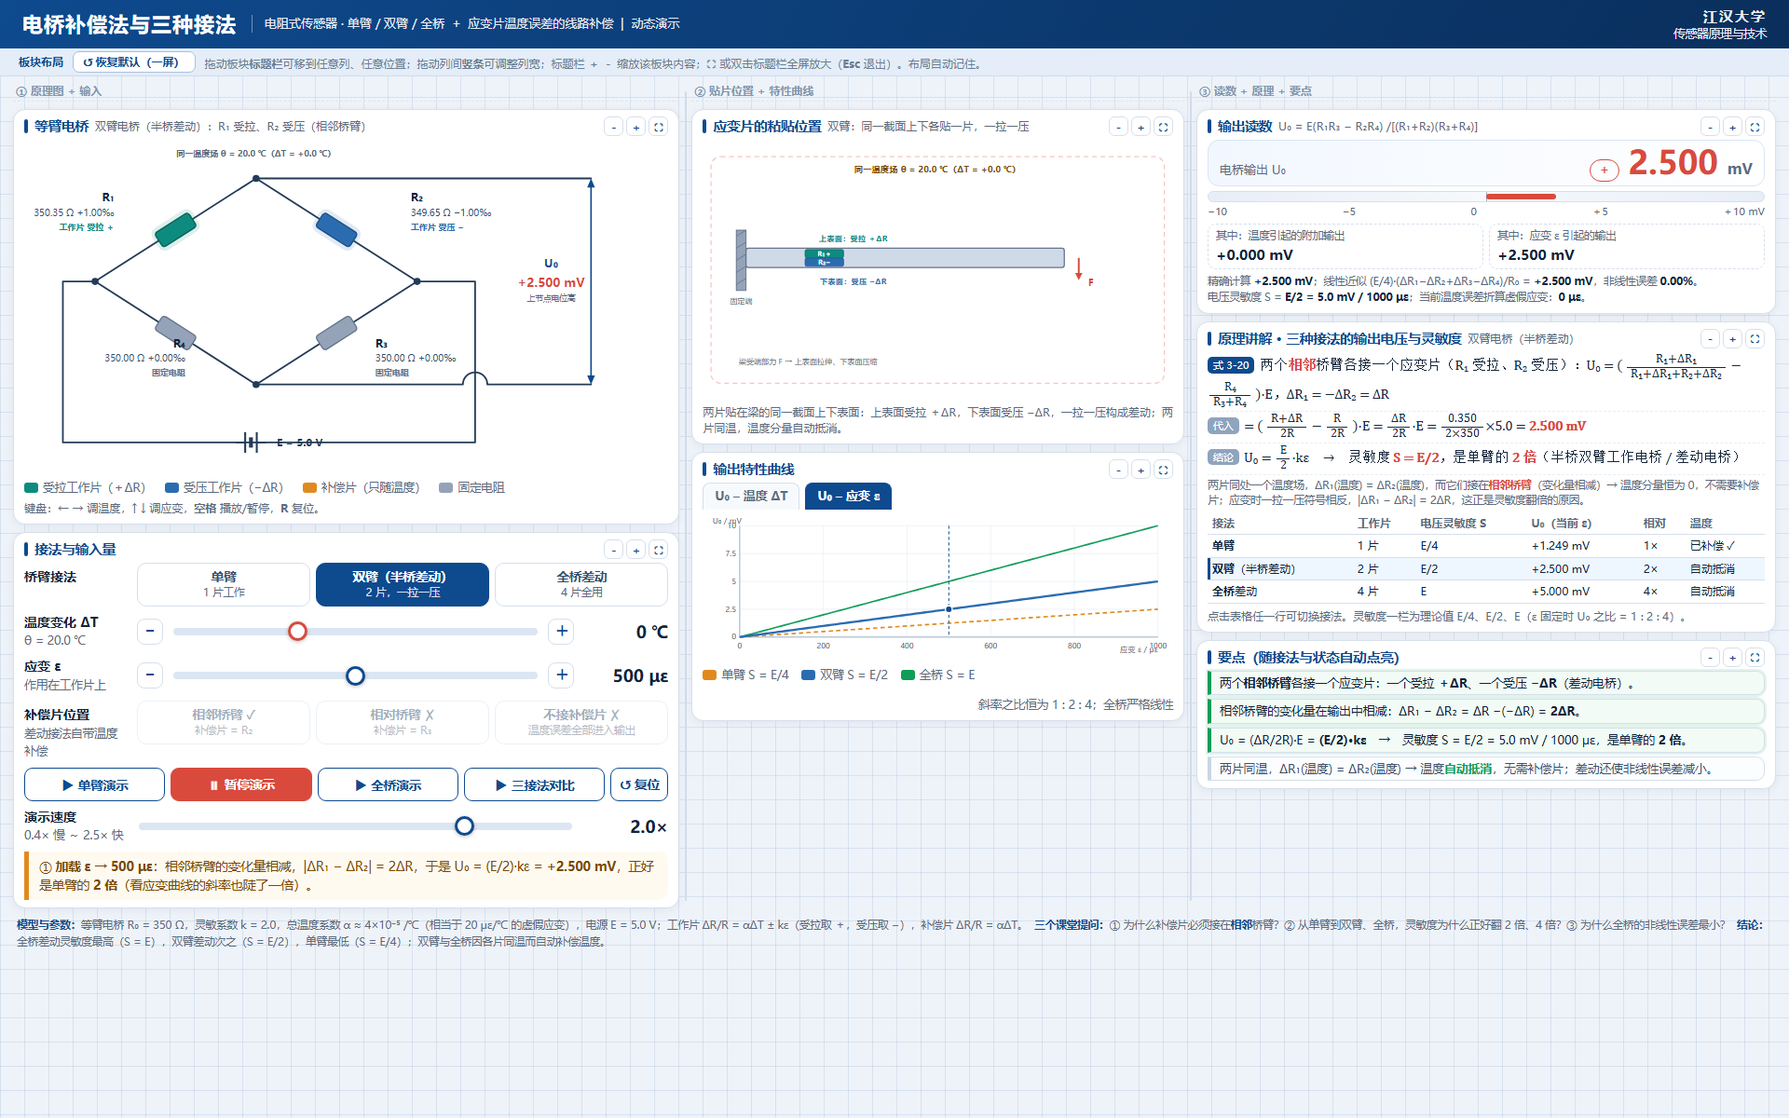
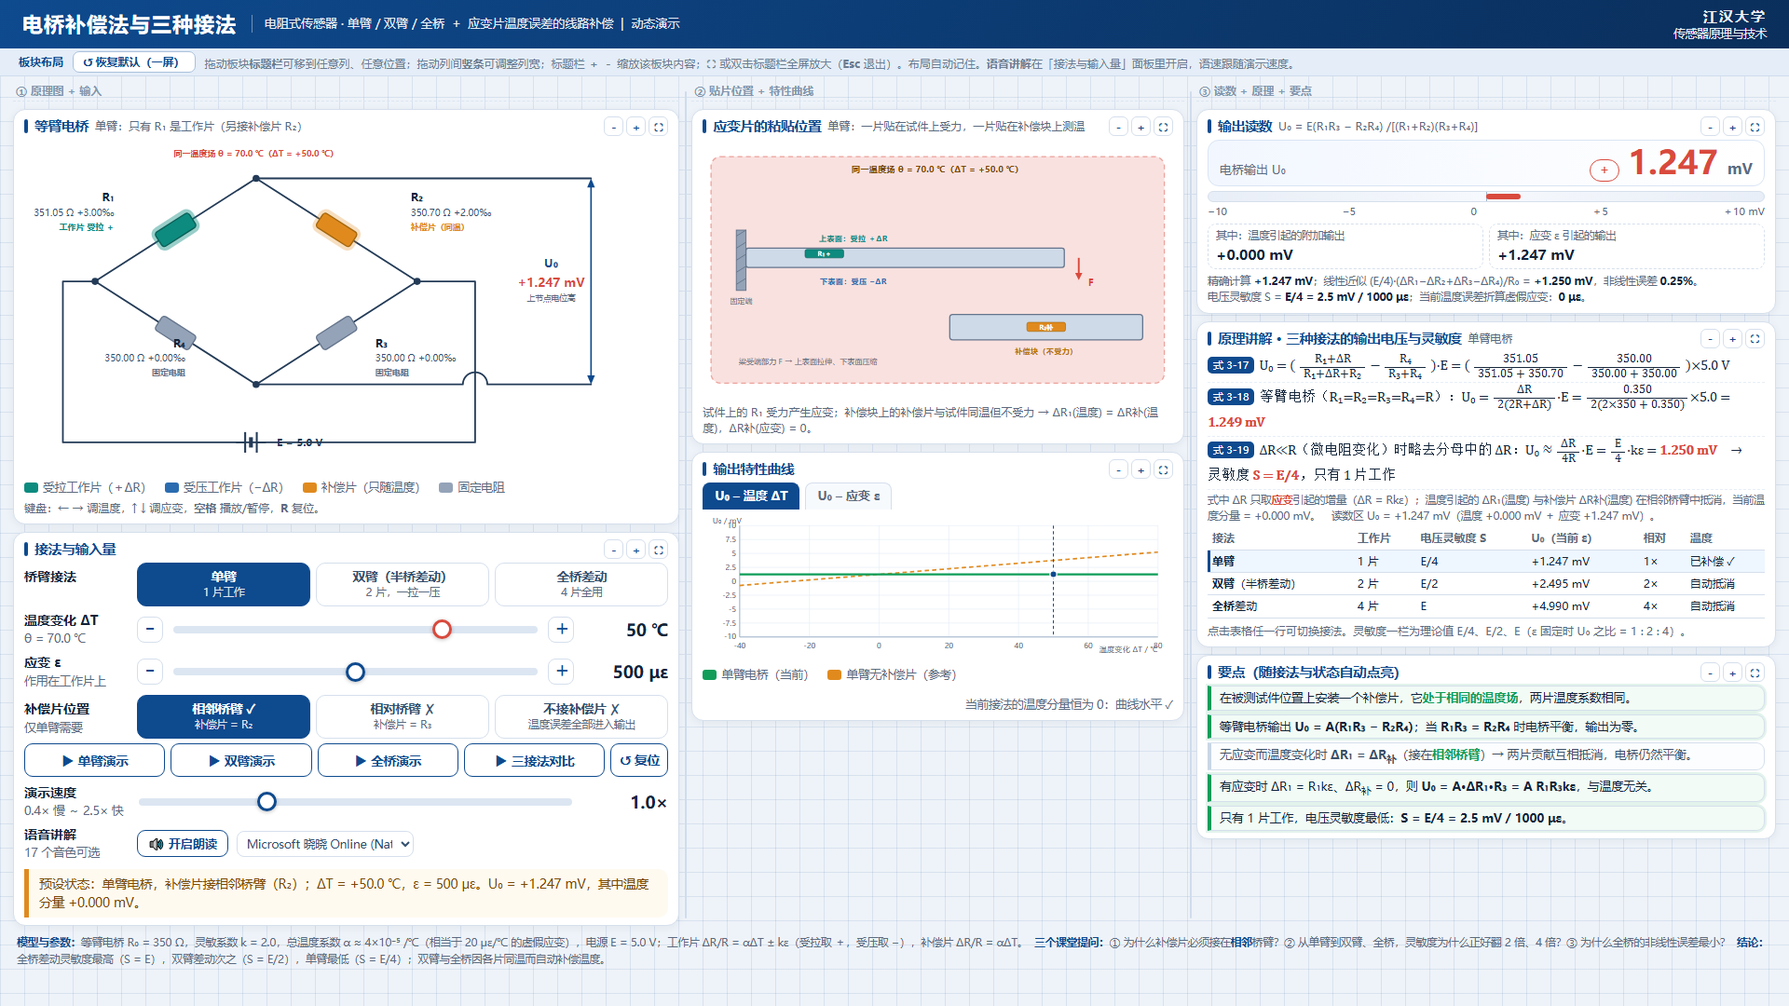
两个演示都加入语音讲解：浏览器内置 TTS 自动朗读旁白，语速跟随演示速度，可选自然音色，旁白可点击重听

diff --git a/传感器原理及检测技术/第3章-半导体压阻效应-动态演示.html b/传感器原理及检测技术/第3章-半导体压阻效应-动态演示.html
@@ -68,7 +68,7 @@
   svg{display:block; width:100%; height:auto}
   .tiny{font-size:12px; fill:var(--muted); color:var(--muted)}
   /* ---- 控件 ---- */
-  .ctrl{display:flex; flex-direction:column; gap:3px; margin-bottom:7px}
+  .ctrl{display:flex; flex-direction:column; gap:3px; margin-bottom:5px}
   .ctrl .row{display:flex; align-items:center; gap:9px}
   .ctrl .name{font-size:13.5px; color:var(--muted); width:118px; flex:none}
   .ctrl .name b{color:var(--ink); font-size:14px}
@@ -85,15 +85,22 @@
   .seg button.on small{color:rgba(255,255,255,.85)}
   .seg button.on.semi{background:var(--semi); border-color:var(--semi)}
   .seg button.on.metal{background:var(--metal); border-color:var(--metal)}
-  .actions{display:flex; gap:6px; margin-top:7px; flex-wrap:wrap}
+  .actions{display:flex; gap:6px; margin-top:5px; flex-wrap:wrap}
   .actions button{flex:1 1 108px; padding:7px 4px; border-radius:9px; border:1px solid var(--jhu);
                   background:var(--jhu); color:#fff; font-size:13.5px; font-weight:700; cursor:pointer;
                   font-family:inherit; white-space:nowrap}
   .actions button.ghost{background:#fff; color:var(--jhu)}
   .actions button.running{background:var(--hot); border-color:var(--hot); color:#fff}
   .actions button:hover{filter:brightness(1.07)}
-  .narrate{margin-top:7px; border-left:5px solid var(--piezo); background:#faf7ff; border-radius:0 10px 10px 0;
-           padding:6px 11px; font-size:13.5px; line-height:1.5; min-height:40px; color:#4c2a80}
+  .narrate{margin-top:5px; border-left:5px solid var(--piezo); background:#faf7ff; border-radius:0 10px 10px 0;
+           padding:5px 11px; font-size:13.5px; line-height:1.5; min-height:40px; color:#4c2a80; cursor:pointer}
+  .narrate:hover{background:#f6f1ff}
+  #voiceToggle{border:1px solid var(--jhu); background:#fff; color:var(--jhu); border-radius:9px;
+               font-size:13px; font-weight:700; padding:5px 11px; cursor:pointer; font-family:inherit; white-space:nowrap}
+  #voiceToggle.on{background:var(--jhu); color:#fff}
+  #voiceToggle:hover{filter:brightness(1.06)}
+  #voiceSel{border:1px solid var(--line); background:#fff; color:#33506f; border-radius:8px;
+            padding:4px 6px; font-size:12.5px; font-family:inherit; max-width:190px}
   /* ---- 读数 ---- */
   .big{display:flex; align-items:baseline; gap:9px; background:linear-gradient(90deg,#f2f7ff,#fff);
        border:1px solid #d9e5f5; border-radius:12px; padding:4px 12px}
@@ -147,7 +154,7 @@
 <div id="laybar">
   <span style="font-weight:700;color:#0e4a8e">板块布局</span>
   <button id="layReset">↺ 恢复默认（一屏）</button>
-  <span class="hint">拖动板块<b>标题栏</b>可移到任意列、任意位置；拖动列间<b>竖条</b>可调整列宽；标题栏 <b>＋ －</b> 缩放该板块内容；<b>⛶</b> 或双击标题栏全屏放大（<b>Esc</b> 退出）。布局自动记住。</span>
+  <span class="hint">拖动板块<b>标题栏</b>可移到任意列、任意位置；拖动列间<b>竖条</b>可调整列宽；标题栏 <b>＋ －</b> 缩放该板块内容；<b>⛶</b> 或双击标题栏全屏放大（<b>Esc</b> 退出）。布局自动记住。<b>语音讲解</b>在「材料与输入量」面板里开启，语速跟随演示速度。</span>
 </div>
 
 <div id="boardWrap">
@@ -221,7 +228,14 @@
           <output id="speedOut">1.0×</output>
         </div>
       </div>
-      <div class="narrate" id="narration">初始状态：金属应变片、ε = 0，电阻率与电阻都不变。四个演示按钮分别讲：压阻效应本体 / 微观机制 / 金属与半导体对比 / 硅膜片全桥应用。</div>
+      <div class="ctrl">
+        <div class="row">
+          <span class="name"><b>语音讲解</b><br><span class="tiny" id="voiceHint">演示时自动朗读旁白</span></span>
+          <button id="voiceToggle">🔊 开启朗读</button>
+          <select id="voiceSel" title="选择朗读音色"></select>
+        </div>
+      </div>
+      <div class="narrate" id="narration" title="点一下可重听这一条">初始状态：金属应变片、ε = 0，电阻率与电阻都不变。四个演示按钮分别讲：压阻效应本体 / 微观机制 / 金属与半导体对比 / 硅膜片全桥应用。</div>
       </div>
     </section>
 
@@ -231,7 +245,7 @@
         <div class="ptools"><button class="ptool" data-act="out" title="缩小本板块内容">－</button><button class="ptool" data-act="in" title="放大本板块内容">＋</button><button class="ptool" data-act="max" title="最大化 / 还原">⛶</button></div>
       </div>
       <div class="pbody">
-      <svg id="lat" viewBox="0 0 700 356" role="img" aria-label="应力改变晶格、散射与电阻率的对照示意">
+      <svg id="lat" viewBox="0 0 700 350" role="img" aria-label="应力改变晶格、散射与电阻率的对照示意">
         <g id="chain"></g>
         <!-- ① 基准 -->
         <text x="12" y="82" font-size="13" font-weight="700" fill="#5b6b80">① 无应力（基准）</text>
@@ -261,7 +275,7 @@
         <text id="rhoLine" x="178" y="282" font-size="13.5" fill="#33506f">应力使迁移率 μ_c 变化 → 电阻率 ρ 反向变化</text>
         <text id="whyLine" x="12" y="302" font-size="12.5" fill="#5b6b80">机理：应力改变晶格的对称性与原子间距 → 半导体能带结构（能谷位置、有效质量、散射几率）随之变化 → μ_c 改变。</text>
         <text id="whyLine2" x="12" y="322" font-size="12.5" fill="#5b6b80">金属缺少这个“杠杆”：晶格同样会变形，但 ρ 几乎不变，只能靠尺寸变化（1+2μ）—— 对比一下 ② 行。</text>
-        <text x="12" y="346" font-size="11.5" fill="#94a3b8">动画示意：晶格变形放大 300 倍，漂移速度与散射频率放大 12 倍；右侧 μ_c、ρ 为真实比例。</text>
+        <text x="12" y="342" font-size="11.5" fill="#94a3b8">动画示意：晶格变形放大 300 倍，漂移速度与散射频率放大 12 倍；右侧 μ_c、ρ 为真实比例。</text>
       </svg>
       <div class="hint" id="latHint">紫色圆点＝载流子，虚线圆＝它被晶格散射一次（撞一下、失去定向速度）：散射越频繁 → 漂移越慢 → 迁移率越小 → 电阻率越大。这就是“应力让晶格变形之后，宏观上量到 ρ 变化”的全过程。</div>
       </div>
@@ -839,7 +853,7 @@
       if (b){ b.textContent = DEMOS[k].label; b.classList.remove('running'); }
     });
   }
-  function stopDemo(){ S.demoToken++; playingKey = null; resetDemoButtons(); }
+  function stopDemo(){ S.demoToken++; playingKey = null; resetDemoButtons(); stopSpeak(); }
   function beginDemo(key){
     stopDemo(); playingKey = key;
     var b = $(DEMOS[key].btn);
@@ -847,8 +861,102 @@
     return ++S.demoToken;
   }
   function endDemo(){ playingKey = null; resetDemoButtons(); }
-  function say(t){ $('narration').innerHTML = t; }
-  function sleep(ms, tok){ return new Promise(function(res){ setTimeout(function(){ res(S.demoToken === tok); }, Math.max(50, ms/SPEED)); }); }
+
+  /* ---------- 语音讲解（浏览器内置 TTS，无需音频文件） ---------- */
+  var synth = window.speechSynthesis || null;
+  var VOICE = { on:false, name:'', ready:false };
+  function plain(html){
+    return String(html).replace(/<[^>]*>/g, ' ')
+                       .replace(/&nbsp;/g, ' ').replace(/&amp;/g, '&')
+                       .replace(/&lt;/g, '<').replace(/&gt;/g, '>').replace(/\s+/g, ' ').trim();
+  }
+  function zhVoices(){
+    var all = (synth && synth.getVoices()) || [];
+    var zh = all.filter(function(v){ return /^zh/i.test(v.lang) || /Chinese|中文|普通话|Huihui|Yaoyao|Kangkang|Xiaoxiao|Yunxi/i.test(v.name); });
+    return zh.length ? zh : all;
+  }
+  function loadVoices(){
+    if (!synth){ $('voiceHint').textContent = '此浏览器不支持朗读'; $('voiceToggle').disabled = true; return; }
+    var list = zhVoices();
+    if (!list.length){ $('voiceHint').textContent = '未找到语音包'; return; }
+    var natural = '', common = '', i;
+    for (i = 0; i < list.length; i++){
+      if (!natural && /Natural|Online|Xiaoxiao|Yunxi|Xiaoyi/i.test(list[i].name)) natural = list[i].name;
+      if (!common && /Huihui|Yaoyao|Kangkang|慧慧|瑶瑶|康康/i.test(list[i].name)) common = list[i].name;
+    }
+    if (!VOICE.name || !list.some(function(v){ return v.name === VOICE.name; }))
+      VOICE.name = natural || common || list[0].name;
+    var sel = $('voiceSel');
+    sel.innerHTML = list.map(function(v){
+      return '<option value="' + v.name + '"' + (v.name === VOICE.name ? ' selected' : '') + '>' + v.name + '</option>';
+    }).join('');
+    VOICE.ready = true;
+    if (!VOICE.on) $('voiceHint').textContent = list.length + ' 个音色可选';
+  }
+  function makeUtterance(text){
+    var u = new SpeechSynthesisUtterance(plain(text));
+    var list = zhVoices(), v = null, i;
+    for (i = 0; i < list.length; i++){ if (list[i].name === VOICE.name){ v = list[i]; break; } }
+    if (v){ u.voice = v; u.lang = v.lang; } else { u.lang = 'zh-CN'; }
+    u.rate = Math.max(0.6, Math.min(1.9, 0.95*SPEED));
+    u.pitch = 1;
+    u.volume = 1;
+    return u;
+  }
+  function speak(text){
+    if (!synth || !VOICE.on || !plain(text)) return;
+    try { synth.cancel(); synth.speak(makeUtterance(text)); } catch (e) {}
+  }
+  function stopSpeak(){ if (synth){ try { synth.cancel(); } catch (e) {} } }
+  function speaking(){ return !!(synth && VOICE.on && (synth.speaking || synth.pending)); }
+
+  $('voiceToggle').addEventListener('click', function(){
+    VOICE.on = !VOICE.on;
+    this.textContent = VOICE.on ? '🔊 朗读已开启' : '🔊 开启朗读';
+    this.classList.toggle('on', VOICE.on);
+    if (VOICE.on){
+      stopSpeak();
+      $('voiceHint').textContent = '语速跟随演示速度';
+      speak($('narration').innerHTML);
+    } else {
+      stopSpeak();
+      $('voiceHint').textContent = '演示时自动朗读旁白';
+    }
+  });
+  $('voiceSel').addEventListener('change', function(){
+    VOICE.name = this.value; stopSpeak(); if (VOICE.on) speak($('narration').innerHTML);
+  });
+  $('narration').addEventListener('click', function(){
+    if (!VOICE.on){ $('voiceHint').textContent = '先点「开启朗读」'; return; }
+    stopSpeak(); speak(this.innerHTML);
+  });
+  if (synth){
+    loadVoices();
+    if (typeof synth.addEventListener === 'function') synth.addEventListener('voiceschanged', loadVoices);
+    else synth.onvoiceschanged = loadVoices;
+    setTimeout(loadVoices, 600);
+  } else {
+    $('voiceHint').textContent = '此浏览器不支持朗读';
+  }
+
+  function say(t){ $('narration').innerHTML = t; speak(t); }
+  /* 等待：开启朗读时，等旁白读完再继续；未开启时与原逻辑完全一致 */
+  function sleep(ms, tok){
+    var base = Math.max(50, ms/SPEED);
+    if (!VOICE.on || !synth){
+      return new Promise(function(res){ setTimeout(function(){ res(S.demoToken === tok); }, base); });
+    }
+    return new Promise(function(res){
+      var t0 = performance.now();
+      (function poll(){
+        if (S.demoToken !== tok){ stopSpeak(); return res(false); }
+        var waited = performance.now() - t0;
+        if (waited >= base && !speaking()) return res(true);
+        if (waited >= base + 45000) return res(true);       /* 兜底，避免卡死 */
+        setTimeout(poll, 100);
+      })();
+    });
+  }
   function tween(from, to, dur, set, tok){
     dur = Math.max(150, dur/SPEED);
     return new Promise(function(res){

diff --git a/传感器原理及检测技术/第3章-电桥补偿法原理-动态演示.html b/传感器原理及检测技术/第3章-电桥补偿法原理-动态演示.html
@@ -102,13 +102,19 @@
   .seg button.on small{color:rgba(255,255,255,.85)}
   .seg button.bad.on{background:var(--hot); border-color:var(--hot)}
   .seg.disabled{opacity:.45; pointer-events:none}
-  .actions{display:flex; gap:6px; margin-top:7px; flex-wrap:wrap}
+  .actions{display:flex; gap:6px; margin-top:5px; flex-wrap:wrap}
   .actions button{flex:1 1 108px; padding:7px 4px; border-radius:9px; border:1px solid var(--jhu); background:var(--jhu); color:#fff; font-size:13.5px; font-weight:700; cursor:pointer; font-family:inherit; white-space:nowrap}
   .actions button.ghost{background:#fff; color:var(--jhu)}
   .actions button:hover{filter:brightness(1.07)}
   .actions button.running{background:var(--hot); border-color:var(--hot); color:#fff}
   .narrate{margin-top:7px; border-left:5px solid var(--comp); background:#fffaf0; border-radius:0 10px 10px 0; padding:6px 11px; font-size:13.5px; line-height:1.5; min-height:40px; color:#7a4a05}
-  .ctrl{display:flex; flex-direction:column; gap:3px; margin-bottom:7px}
+  #voiceToggle{border:1px solid var(--jhu); background:#fff; color:var(--jhu); border-radius:9px;
+               font-size:13px; font-weight:700; padding:5px 11px; cursor:pointer; font-family:inherit; white-space:nowrap}
+  #voiceToggle.on{background:var(--jhu); color:#fff}
+  #voiceToggle:hover{filter:brightness(1.06)}
+  #voiceSel{border:1px solid var(--line); background:#fff; color:#33506f; border-radius:8px;
+            padding:4px 6px; font-size:12.5px; font-family:inherit; max-width:190px}
+  .ctrl{display:flex; flex-direction:column; gap:3px; margin-bottom:5px}
   .ctrl .row{display:flex; align-items:center; gap:9px}
   .ctrl .name{font-size:13.5px; color:var(--muted); width:112px; flex:none}
   .ctrl .name b{color:var(--ink); font-size:14px}
@@ -173,7 +179,7 @@
 <div id="laybar">
   <span style="font-weight:700;color:#0e4a8e">板块布局</span>
   <button id="layReset">↺ 恢复默认（一屏）</button>
-  <span class="hint">拖动板块<b>标题栏</b>可移到任意列、任意位置；拖动列间<b>竖条</b>可调整列宽；标题栏 <b>＋ －</b> 缩放该板块内容；<b>⛶</b> 或双击标题栏全屏放大（<b>Esc</b> 退出）。布局自动记住。</span>
+  <span class="hint">拖动板块<b>标题栏</b>可移到任意列、任意位置；拖动列间<b>竖条</b>可调整列宽；标题栏 <b>＋ －</b> 缩放该板块内容；<b>⛶</b> 或双击标题栏全屏放大（<b>Esc</b> 退出）。布局自动记住。<b>语音讲解</b>在「接法与输入量」面板里开启，语速跟随演示速度。</span>
 </div>
 
 <div id="boardWrap">
@@ -319,7 +325,15 @@
       <output id="speedOut">1.0×</output>
       </div>
       </div>
-      <div class="narrate" id="narration">初始状态：单臂接法、ΔT = 0、ε = 0，四臂等值 R₀ = 350 Ω，电桥平衡，U₀ = 0。点上面四个按钮可分别演示单臂 / 双臂 / 全桥 / 三接法对比，右侧滑块控制演示快慢。</div>
+
+      <div class="ctrl">
+        <div class="row">
+          <span class="name"><b>语音讲解</b><br><span class="tiny" id="voiceHint">演示时自动朗读旁白</span></span>
+          <button id="voiceToggle">🔊 开启朗读</button>
+          <select id="voiceSel" title="选择朗读音色"></select>
+        </div>
+      </div>
+      <div class="narrate" id="narration" title="点一下可重听这一条">初始状态：单臂接法、ΔT = 0、ε = 0，四臂等值 R₀ = 350 Ω，电桥平衡，U₀ = 0。点上面四个按钮可分别演示单臂 / 双臂 / 全桥 / 三接法对比，右侧滑块控制演示快慢。</div>
       </div>
       </section>
   </div>
@@ -822,7 +836,7 @@
       if (b){ b.textContent = DEMOS[k].label; b.classList.remove('running'); }
     });
   }
-  function stopDemo(){ S.demoToken++; playingKey = null; resetDemoButtons(); }
+  function stopDemo(){ S.demoToken++; playingKey = null; resetDemoButtons(); stopSpeak(); }
   function beginDemo(key){
     stopDemo();
     playingKey = key;
@@ -831,10 +845,101 @@
     return ++S.demoToken;
   }
   function endDemo(){ playingKey = null; resetDemoButtons(); }
-  function say(t){ $('narration').innerHTML = t; }
-  /* 所有演示的等待与补间都按速度换算，运行中拖动速度条立即生效 */
+
+  /* ---------- 语音讲解（浏览器内置 TTS，无需音频文件） ---------- */
+  var synth = window.speechSynthesis || null;
+  var VOICE = { on:false, name:'', ready:false };
+  function plain(html){
+    return String(html).replace(/<[^>]*>/g, ' ')
+                       .replace(/&nbsp;/g, ' ').replace(/&amp;/g, '&')
+                       .replace(/&lt;/g, '<').replace(/&gt;/g, '>').replace(/\s+/g, ' ').trim();
+  }
+  function zhVoices(){
+    var all = (synth && synth.getVoices()) || [];
+    var zh = all.filter(function(v){ return /^zh/i.test(v.lang) || /Chinese|中文|普通话|Huihui|Yaoyao|Kangkang|Xiaoxiao|Yunxi/i.test(v.name); });
+    return zh.length ? zh : all;
+  }
+  function loadVoices(){
+    if (!synth){ $('voiceHint').textContent = '此浏览器不支持朗读'; $('voiceToggle').disabled = true; return; }
+    var list = zhVoices();
+    if (!list.length){ $('voiceHint').textContent = '未找到语音包'; return; }
+    var natural = '', common = '', i;
+    for (i = 0; i < list.length; i++){
+      if (!natural && /Natural|Online|Xiaoxiao|Yunxi|Xiaoyi/i.test(list[i].name)) natural = list[i].name;
+      if (!common && /Huihui|Yaoyao|Kangkang|慧慧|瑶瑶|康康/i.test(list[i].name)) common = list[i].name;
+    }
+    if (!VOICE.name || !list.some(function(v){ return v.name === VOICE.name; }))
+      VOICE.name = natural || common || list[0].name;
+    var sel = $('voiceSel');
+    sel.innerHTML = list.map(function(v){
+      return '<option value="' + v.name + '"' + (v.name === VOICE.name ? ' selected' : '') + '>' + v.name + '</option>';
+    }).join('');
+    VOICE.ready = true;
+    if (!VOICE.on) $('voiceHint').textContent = list.length + ' 个音色可选';
+  }
+  function makeUtterance(text){
+    var u = new SpeechSynthesisUtterance(plain(text));
+    var list = zhVoices(), v = null, i;
+    for (i = 0; i < list.length; i++){ if (list[i].name === VOICE.name){ v = list[i]; break; } }
+    if (v){ u.voice = v; u.lang = v.lang; } else { u.lang = 'zh-CN'; }
+    u.rate = Math.max(0.6, Math.min(1.9, 0.95*SPEED));
+    u.pitch = 1;
+    u.volume = 1;
+    return u;
+  }
+  function speak(text){
+    if (!synth || !VOICE.on || !plain(text)) return;
+    try { synth.cancel(); synth.speak(makeUtterance(text)); } catch (e) {}
+  }
+  function stopSpeak(){ if (synth){ try { synth.cancel(); } catch (e) {} } }
+  function speaking(){ return !!(synth && VOICE.on && (synth.speaking || synth.pending)); }
+
+  $('voiceToggle').addEventListener('click', function(){
+    VOICE.on = !VOICE.on;
+    this.textContent = VOICE.on ? '🔊 朗读已开启' : '🔊 开启朗读';
+    this.classList.toggle('on', VOICE.on);
+    if (VOICE.on){
+      stopSpeak();
+      $('voiceHint').textContent = '语速跟随演示速度';
+      speak($('narration').innerHTML);
+    } else {
+      stopSpeak();
+      $('voiceHint').textContent = '演示时自动朗读旁白';
+    }
+  });
+  $('voiceSel').addEventListener('change', function(){
+    VOICE.name = this.value; stopSpeak(); if (VOICE.on) speak($('narration').innerHTML);
+  });
+  $('narration').addEventListener('click', function(){
+    if (!VOICE.on){ $('voiceHint').textContent = '先点「开启朗读」'; return; }
+    stopSpeak(); speak(this.innerHTML);
+  });
+  if (synth){
+    loadVoices();
+    if (typeof synth.addEventListener === 'function') synth.addEventListener('voiceschanged', loadVoices);
+    else synth.onvoiceschanged = loadVoices;
+    setTimeout(loadVoices, 600);
+  } else {
+    $('voiceHint').textContent = '此浏览器不支持朗读';
+  }
+
+  function say(t){ $('narration').innerHTML = t; speak(t); }
+  /* 等待：开启朗读时，等旁白读完再继续；未开启时与原逻辑完全一致 */
   function sleep(ms, tok){
-    return new Promise(function(res){ setTimeout(function(){ res(S.demoToken === tok); }, Math.max(50, ms/SPEED)); });
+    var base = Math.max(50, ms/SPEED);
+    if (!VOICE.on || !synth){
+      return new Promise(function(res){ setTimeout(function(){ res(S.demoToken === tok); }, base); });
+    }
+    return new Promise(function(res){
+      var t0 = performance.now();
+      (function poll(){
+        if (S.demoToken !== tok){ stopSpeak(); return res(false); }
+        var waited = performance.now() - t0;
+        if (waited >= base && !speaking()) return res(true);
+        if (waited >= base + 45000) return res(true);       /* 兜底，避免卡死 */
+        setTimeout(poll, 100);
+      })();
+    });
   }
   function tween(from, to, dur, set, tok){
     dur = Math.max(150, dur/SPEED);

diff --git a/README.md b/README.md
@@ -51,6 +51,20 @@
 - **布局记忆**：自动保存在浏览器本地，另有「↺ 恢复默认（一屏）」一键还原
 - **键盘**：`← →` 温度、`↑ ↓` 应变、`空格` 演示当前接法、`R` 复位
 
+## 语音讲解（可选）
+
+两个演示都内置了**浏览器朗读**功能，不需要任何音频文件，离线也能用：
+
+- 在「接法与输入量 / 材料与输入量」面板里点 **🔊 开启朗读**，演示时会自动朗读每一步的旁白
+- **语速跟随演示速度滑块**（0.4×～2.5× 同时调节动画与语速）
+- 右上角下拉框可选音色：联网时优先用 Edge 的**自然音色**（如 Microsoft 晓晓 Online (Natural)），
+  否则回退到系统语音（Windows 中文语音：慧慧 / 瑶瑶 / 康康）
+- 开启朗读后，每一步会**等旁白念完再继续**，不会漏听；暂停或拖动滑块会立即停止朗读
+- **点一下旁白文字**可以重听这一条
+
+> 建议用 **Microsoft Edge** 打开（自然音色最好听，Chrome 亦可）；若本机没有中文语音包，
+> 面板上会提示"未找到语音包"，此时可到「Windows 设置 → 时间和语言 → 语音」里添加中文语音。
+
 ## 网址参数（可存成书签，上课直接打开预设状态）
 
 ```
